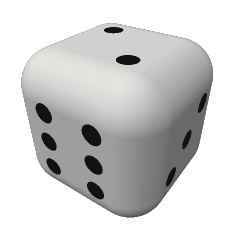
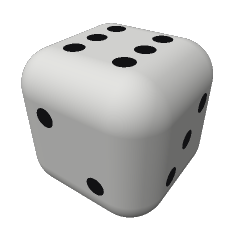
fix(mobile): land the die upright with the value in front
dieRollDegrees maps roll progress onto 360 degrees so settle is 0 mod 360.
The renderer paints the rolled face on AXIS_FRONT and rewrites every sprite.
Preview strips leave the asset bundle. --preview still writes them for review.

diff --git a/apps/mobile/src/components/game/dieFace.test.ts b/apps/mobile/src/components/game/dieFace.test.ts
@@ -7,7 +7,9 @@ import {
   DIE_PIP_LAYOUT,
   DIE_ROLL_BEATS,
   DIE_ROLL_MS,
+  DIE_ROLL_SPIN_DEG,
   dieFace,
+  dieRollDegrees,
   isDieFace,
   type DieFace,
 } from './dieFace';
@@ -79,5 +81,20 @@ describe('die roll beats', () => {
     expect(DIE_ROLL_MS).toBeGreaterThanOrEqual(600);
     expect(DIE_ROLL_MS).toBeLessThanOrEqual(800);
     expect(Math.abs(DIE_ROLL_MS - 784)).toBeLessThanOrEqual(30);
+  });
+
+  it('lands the final rotation at 0 mod 360', () => {
+    const settled = (deg: number) => (((deg % 360) + 360) % 360 === 0);
+    expect(DIE_ROLL_SPIN_DEG % 360).toBe(0);
+    expect(settled(dieRollDegrees(1, 1))).toBe(true);
+    expect(settled(dieRollDegrees(1, -1))).toBe(true);
+    expect(dieRollDegrees(0, 1)).toBe(0);
+  });
+});
+
+describe('dice asset bundle', () => {
+  it('keeps preview strips out of assets/dice', () => {
+    expect(existsSync(join(diceDir, 'faces-strip.png'))).toBe(false);
+    expect(existsSync(join(diceDir, 'roll-strip.png'))).toBe(false);
   });
 });

diff --git a/apps/mobile/src/components/game/DiceFace.tsx b/apps/mobile/src/components/game/DiceFace.tsx
@@ -9,7 +9,7 @@ import Animated, {
   withTiming,
 } from 'react-native-reanimated';
 import { triggerHaptic } from '../../utils/gameAudio';
-import { DIE_ROLL_BEATS, DIE_ROLL_MS, dieFace } from './dieFace';
+import { DIE_ROLL_BEATS, DIE_ROLL_MS, dieFace, dieRollDegrees } from './dieFace';
 import { DIE_SHADOW_SOURCE, dieFaceSource } from './dieSprites';
 
 const EASE_OUT = Easing.bezier(0.23, 1, 0.32, 1);
@@ -77,7 +77,7 @@ export function DiceFace({ value, size, rollKey, idle, spin: dir = 1, buzz }: Di
     opacity: idle ? 0.95 : 1,
     transform: [
       { translateY: drop.value },
-      { rotate: `${tumble.value * 220 * dir}deg` },
+      { rotate: `${dieRollDegrees(tumble.value, dir)}deg` },
       { scale: squash.value },
     ],
   }));

diff --git a/apps/mobile/src/components/game/dieFace.ts b/apps/mobile/src/components/game/dieFace.ts
@@ -9,6 +9,13 @@ export const DIE_ROLL_BEATS = {
   settle: 200,
 } as const;
 
+export const DIE_ROLL_SPIN_DEG = 360;
+
+export function dieRollDegrees(progress: number, dir: 1 | -1): number {
+  'worklet';
+  return progress * DIE_ROLL_SPIN_DEG * dir;
+}
+
 export const DIE_FACE_FILE: Record<DieFace, string> = {
   1: 'face-1.png',
   2: 'face-2.png',

diff --git a/apps/mobile/scripts/render-dice-faces.py b/apps/mobile/scripts/render-dice-faces.py
@@ -1,6 +1,7 @@
 #!/usr/bin/env python3
 from __future__ import annotations
 
+import argparse
 import json
 import struct
 import zlib
@@ -133,7 +134,6 @@ def downsample(rgba: np.ndarray, factor: int) -> np.ndarray:
 
 
 def render_die(value: int, size: int) -> np.ndarray:
-    front, right = SIDE_FACES[value]
     eye = np.array([1.35, 1.58, 1.92], dtype=np.float64)
     eye = eye / np.linalg.norm(eye) * 2.78
     target = np.array([0.0, -0.08, 0.0])
@@ -180,9 +180,10 @@ def render_die(value: int, size: int) -> np.ndarray:
     shade = np.clip(wrap * 0.66 + fill_amt + sky, 0.0, 0.94)
     color[...] = albedo * shade[..., None] + spec[..., None]
 
+    top, right = SIDE_FACES[value]
     for axis_id, face_value, need_pos in (
-        (AXIS_TOP, value, True),
-        (AXIS_FRONT, front, True),
+        (AXIS_FRONT, value, True),
+        (AXIS_TOP, top, True),
         (AXIS_RIGHT, right, True),
     ):
         on_face = hit & (axis == axis_id) & ((sign > 0) if need_pos else (sign < 0))
@@ -240,12 +241,12 @@ def blit(dst: np.ndarray, src: np.ndarray, x: int, y: int) -> None:
 def render_roll_strip(die: np.ndarray, shadow: np.ndarray) -> np.ndarray:
     cell = die.shape[0]
     frames = [
-        (-38, -28.0, 0.45),
-        (-12, 110.0, 0.62),
-        (0, 168.0, 1.0),
-        (-14, 188.0, 1.0),
-        (0, 205.0, 1.0),
-        (0, 220.0, 1.0),
+        (-38, 54.0, 0.45),
+        (-12, 180.0, 0.62),
+        (0, 252.0, 1.0),
+        (-14, 317.0, 1.0),
+        (0, 346.0, 1.0),
+        (0, 0.0, 1.0),
     ]
     strip = np.zeros((cell + 24, cell * len(frames), 4), dtype=np.uint8)
     for i, (dy, rot, grow) in enumerate(frames):
@@ -257,7 +258,7 @@ def render_roll_strip(die: np.ndarray, shadow: np.ndarray) -> np.ndarray:
     return strip
 
 
-def main() -> None:
+def main(preview: Path | None = None) -> None:
     OUT.mkdir(parents=True, exist_ok=True)
     hi = SIZE_1X * RENDER_SCALE
     strip = np.zeros((SIZE_1X * 3, SIZE_1X * 3 * 6, 4), dtype=np.uint8)
@@ -270,7 +271,6 @@ def main() -> None:
             name = f"face-{value}.png" if scale == 1 else f"face-{value}@{scale}x.png"
             write_png(OUT / name, rgba)
             print(f"wrote {name} {rgba.shape[1]}x{rgba.shape[0]}")
-    write_png(OUT / "faces-strip.png", strip)
     shadow_hi = render_shadow(hi)
     for scale in SCALES:
         factor = RENDER_SCALE // scale
@@ -283,9 +283,18 @@ def main() -> None:
     }
     (OUT / "pip-layout.json").write_text(json.dumps(layout, indent=2) + "\n")
     print(f"wrote {OUT / 'pip-layout.json'}")
-    write_png(OUT / "roll-strip.png", render_roll_strip(downsample(render_die(5, hi), 2), downsample(shadow_hi, 2)))
-    print("wrote roll-strip.png")
+    if preview is not None:
+        preview.mkdir(parents=True, exist_ok=True)
+        write_png(preview / "faces-strip.png", strip)
+        write_png(
+            preview / "roll-strip.png",
+            render_roll_strip(downsample(render_die(5, hi), 2), downsample(shadow_hi, 2)),
+        )
+        print(f"wrote previews in {preview}")
 
 
 if __name__ == "__main__":
-    main()
+    parser = argparse.ArgumentParser()
+    parser.add_argument("--preview", type=Path, default=None)
+    args = parser.parse_args()
+    main(preview=args.preview)
